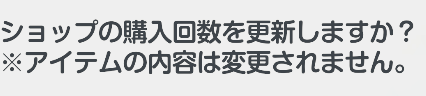
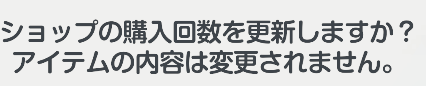
fix : jp ui change

diff --git a/module/lesson.py b/module/lesson.py
@@ -1,6 +1,8 @@
 import importlib
 import time
 
+import cv2
+
 from core import color, picture, image
 from core.utils import build_possible_string_dict_and_length, most_similar_string
 
@@ -295,18 +297,54 @@ def is_chinese_char(char):
 
 
 def get_lesson_relationship_counts(self):
-    position = [(443, 290), (787, 290), (1132, 290),
-                (443, 441), (787, 441), (1132, 441),
-                (443, 591), (787, 591), (1132, 591)]
-    dx = 51
+    position = {
+        'CN': [(443, 290), (787, 290), (1132, 290),
+               (443, 441), (787, 441), (1132, 441),
+               (443, 591), (787, 591), (1132, 591)],
+        'Global': [(443, 290), (787, 290), (1132, 290),
+                   (443, 441), (787, 441), (1132, 441),
+                   (443, 591), (787, 591), (1132, 591)],
+        'JP': [(354, 271), (701, 271), (1043, 271),
+               (354, 422), (701, 422), (1043, 422),
+               (354, 574), (701, 574), (1043, 574)]
+    }
+    dx = {
+        'CN': 51,
+        'Global': 51,
+        'JP': 72
+    }
+    rgb_range = {
+        'CN': [245, 255, 108, 128, 134, 154],
+        'Global': [245, 255, 108, 128, 134, 154],
+        'JP': [223, 255, 164, 224, 190, 230]
+    }
+    if self.server == "JP":
+        self.swipe(983, 588, 983, 466, duration=0.1, post_sleep_time=1.0)
+        self.update_screenshot_array()
+    rgb_range = rgb_range[self.server]
+    position = position[self.server]
+    dx = dx[self.server]
     res = []
     for i in range(0, 9):
         cnt = 0
         for j in range(0, 3):
-            if color.rgb_in_range(self, position[i][0] - dx * j, position[i][1], 245, 255, 108, 128,
-                                  134, 154):
+            if color.rgb_in_range(
+                    self,
+                    position[i][0] - dx * j,
+                    position[i][1],
+                    rgb_range[0],
+                    rgb_range[1],
+                    rgb_range[2],
+                    rgb_range[3],
+                    rgb_range[4],
+                    rgb_range[5],
+            ):
                 cnt += 1
+            # cv2.circle(self.latest_img_array, (position[i][0] - dx * j, position[i][1]), radius=2, color=1, thickness=1)
+
         res.append(cnt)
+    # cv2.imshow("test", self.latest_img_array)
+    # cv2.waitKey(0)
     return res
 
 
@@ -423,7 +461,7 @@ def invite_favor_student(self):
         for j in range(0, 9):
             block_existing_names = []
             if res[0][j] == "available":
-                detect_region = get_favor_student_detect_region(j)
+                detect_region = get_favor_student_detect_region(self, j)
                 block_detect_student = []
                 for key in template_image_names:
                     if key in block_existing_names:
@@ -496,13 +534,22 @@ def invite_favor_student(self):
                         detected_student_pos[name].remove((region, lesson_id))
 
 
-def get_favor_student_detect_region(lesson_cnt):
-    x_start = 285
-    y_start = 240
-    dx1 = 344
-    dy1 = 152
-    dx2 = 161
-    dy2 = 52
+def get_favor_student_detect_region(self, lesson_cnt):
+    if self.server == 'CN' or self.sever == 'Global':
+        x_start = 285
+        y_start = 240
+        dx1 = 344
+        dy1 = 152
+        dx2 = 161
+        dy2 = 52
+    else:
+        x_start = 145
+        y_start = 232
+        dx1 = 344
+        dy1 = 152
+        dx2 = 225
+        dy2 = 68
+
     x1 = x_start + dx1 * (lesson_cnt % 3)
     y1 = y_start + dy1 * (lesson_cnt // 3)
     return x1, y1, x1 + dx2, y1 + dy2

diff --git a/src/images/JP/x_y_range/shop.py b/src/images/JP/x_y_range/shop.py
@@ -1,10 +1,10 @@
 prefix = "shop"
 path = "shop"
 x_y_range = {
-    'refresh-notice': (431, 237, 857, 333),
+    'refresh-notice': (431, 237, 857, 323),
     'refresh-unavailable-notice': (427, 312, 841, 351),
     'menu': (100, 7, 262, 40),
-    'purchase-notice1': (434, 423, 844, 459),
+    'purchase-notice1': (431, 144, 839, 186),
     'item-chosen': (638, 195, 654, 214),
     'coin-type-creditpoints-bright': (637, 305, 682, 341),
     'coin-type-creditpoints-grey': (637, 305, 682, 341),

diff --git a/core/Baas_thread.py b/core/Baas_thread.py
@@ -701,7 +701,12 @@ class Baas_thread:
 
     def get_ap(self, is_main_page=False):
         if is_main_page:
-            region = (512, 25, 609, 52)
+            region = {
+                'CN': (512, 25, 609, 52),
+                'Global':(512, 25, 609, 52),
+                'JP': (485, 23, 586, 54)
+            }
+            region = region[self.server]
         else:
             region = (557, 10, 662, 40)
         ocr_res = self.ocr.get_region_res(

diff --git a/src/images/JP/x_y_range/lesson.py b/src/images/JP/x_y_range/lesson.py
@@ -6,6 +6,6 @@ x_y_range = {
     "lesson-information": (500, 100, 803, 135),
     "all-locations": (490, 100, 803, 135),
     'lesson-report': (500, 120, 805, 158),
-    'purchase-lesson-ticket-menu': (461, 147, 822, 185),
+    'purchase-lesson-ticket-menu': (461, 157, 822, 195),
     'purchase-lesson-ticket-notice': (461, 169, 822, 205)
 }

diff --git a/module/common_shop.py b/module/common_shop.py
@@ -122,7 +122,6 @@ def buy(self, buy_list):
     total_item = buy_list.sum()
     count = 0
     while last_checked_idx < length:
-        cv2.imwrite(f"buy_{count}.png", self.latest_img_array)
         count += 1
         items, item_lines_y = get_item_position(self)
         for i in range(1, len(item_lines_y)):
